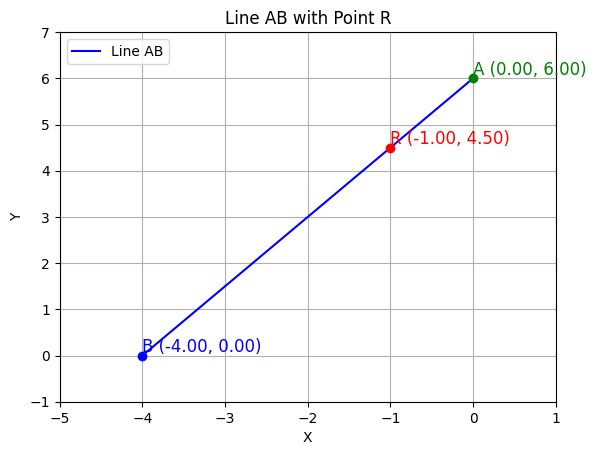
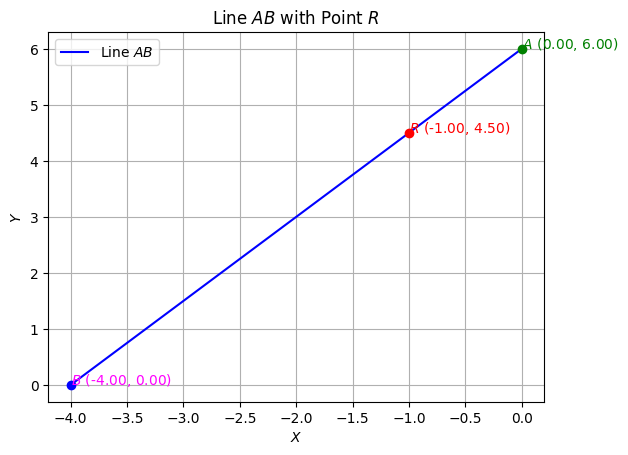
edited

diff --git a/Gate_assgn_1/codes/o.py b/Gate_assgn_1/codes/o.py
@@ -1,48 +1,52 @@
 import matplotlib.pyplot as plt
 
-def read_coordinates(output):
+def read_points(output):
     with open(output, 'r') as file:
         lines = file.readlines()
-    
-    #Reading and cleaning the cordinates from the file
-    coordinates = []
-    for line in lines:
-        line = line.strip().strip('()')
-        x, y = map(float, line.split(','))
-        coordinates.append((x, y))
-    
-    return coordinates
+
+
+
+#Reading the coordinates of the points from the files
+    line1 = lines[0].strip().strip('()')
+    B_x, B_y = map(float, line1.split(','))
+
+    line2 = lines[1].strip().strip('()')
+    A_x, A_y = map(float, line2.split(','))
+
+    line3 = lines[2].strip().strip('()')
+    R_x, R_y = map(float, line3.split(','))
+
+    return [[B_x, B_y], [A_x, A_y], [R_x, R_y]]
+
+def plot_coordinates(coordinates):
+    B_x, B_y = coordinates[0][0], coordinates[0][1]
+    A_x, A_y = coordinates[1][0], coordinates[1][1]
+    R_x, R_y = coordinates[2][0], coordinates[2][1]
+
+    #making limits for the plot
+    all_x = [B_x, A_x, R_x]
+    all_y = [B_y, A_y, R_y]
+
+    margin =1 
+
+    #line plot
+    plt.plot([B_x, A_x], [B_y, A_y], 'b-', label='Line $AB$')
 
     
-    #Extracting B,A,R
-    B = coordinates[0]
-    A = coordinates[1]
-    R = coordinates[2]
+    #Points plot
+    plt.plot(B_x, B_y, 'bo')  
+    plt.text(B_x, B_y, f'$B$ ({B_x:.2f}, {B_y:.2f})', color='magenta')
     
-    #Calculating limits for the plot
-    all_x = [x for x, y in coordinates]
-    all_y = [y for x, y in coordinates]
+    plt.plot(A_x, A_y, 'go')  
+    plt.text(A_x, A_y, f'$A$ ({A_x:.2f}, {A_y:.2f})', color='green')
     
-    margin = 1  # Adding margins
-    plt.xlim(min(all_x) - margin, max(all_x) + margin)
-    plt.ylim(min(all_y) - margin, max(all_y) + margin)
-    
-    #Plotting the line
-    plt.plot([B[0], A[0]], [B[1], A[1]], 'b-', label='Line AB')
-    
-    #Ploting and labelling the points
-    plt.plot(*B, 'bo')  
-    plt.text(B[0], B[1], f'B ({B[0]:.2f}, {B[1]:.2f})', fontsize=12, color='blue', verticalalignment='bottom')
-    
-    plt.plot(*A, 'go')  
-    plt.text(A[0], A[1], f'A ({A[0]:.2f}, {A[1]:.2f})', fontsize=12, color='green', verticalalignment='bottom')
-    
-    plt.plot(*R, 'ro')  
-    plt.text(R[0], R[1], f'R ({R[0]:.2f}, {R[1]:.2f})', fontsize=12, color='red', verticalalignment='bottom')
+    plt.plot(R_x, R_y, 'ro')  
+    plt.text(R_x, R_y, f'$R$ ({R_x:.2f}, {R_y:.2f})', color='red')
 
-    plt.xlabel('X')
-    plt.ylabel('Y')
-    plt.title('Line AB with Point R')
+
+    plt.xlabel('$X$')
+    plt.ylabel('$Y$')
+    plt.title('Line $AB$ with Point $R$')
     plt.legend()
     plt.grid(True)
     plt.savefig('../plots/plot.png', format='png', bbox_inches='tight')
@@ -50,7 +54,8 @@ def read_coordinates(output):
 
 if __name__ == "__main__":
     #fetching coordinates from the file
-    coordinates = read_coordinates("output")
+    coordinates = read_points("output")
+    
     
     #final plot
     plot_coordinates(coordinates)
